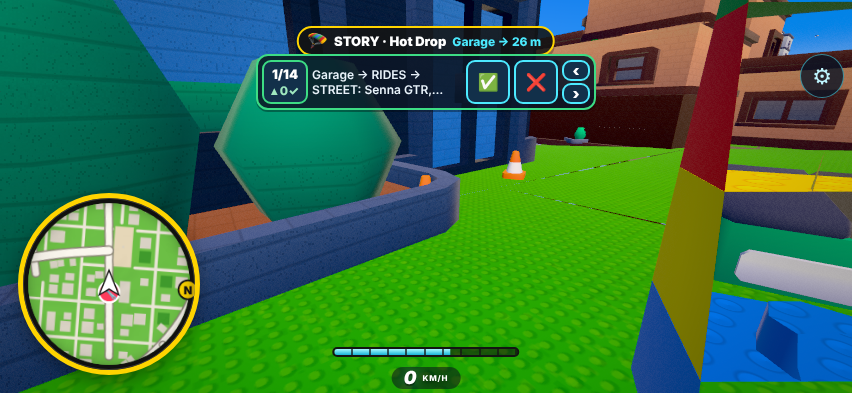
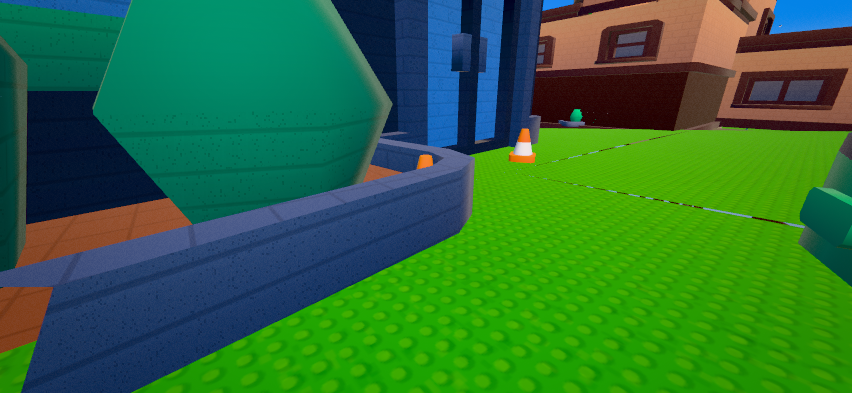
land-3: Athens cypress lathe cut to 35 tris (2 tiers, 5 sides), Athens/Frankfurt shots
Claude-Session: https://claude.ai/code/session_01F9UVq3exKAQQy4xHV7BH6G

diff --git a/src/98ld_l_land.js b/src/98ld_l_land.js
@@ -88,9 +88,9 @@ function LDS_rock(old,cl,ch){const{V,F}=LDS.ROCK,P=[],c=[],lo=new THREE.Color(cl
 Object.assign(LDS.SW,{cone:[LDS_cone,'4589 cone'],barrier:[LDS_barrier,'4083 barrier'],clight:[LDS_clight,'4032+3062b warning light'],sign:[LDS_sign,'30260p01 stop sign + 3957a'],rock:[LDS_rock,'42284+42291 rock']});
 // Athens CE_* procedural props (land-3, swaps 14-17), same LEGO parts as Frankfurt in Athens colours; set right after CE_defs (buildHubProps)
 // CE_pine -> 3471 Plant Tree Pyramidal 4x4x6⅔ (264 tris of icospheres), CE_olive -> 3470 Plant Tree Oval in olive sage (184), CE_rock -> the 42284/42291 boulder
-// in tan (160), CE_cypress -> 3778 Plant Tree Columnar 4x4x11.5: its 12 stacked tiers as 4 (lProfile 3778.dat, 6 sides)
+// in tan (160), CE_cypress -> 3778 Plant Tree Columnar 4x4x11.5: its stacked tiers as 2, 5 sides (35 tris: 14k cypresses, ≤ the old 41)
 LDS.CE={CE_pine:[()=>LDS_lth(LDS.P.tree3.n,8,[[48,'#6b4a2a'],[999,'#3e6b34']]),'3471',7.2],CE_olive:[()=>LDS_lth(LDS.P.tree.n,7,[[48,'#6a5848'],[999,'#8a9a68']]),'3470',4.1],
- CE_cypress:[()=>LDS_lth([[6,0],[6,36],[44,48],[16,70],[47,96],[18,130],[44,150],[14,190],[34,200],[0,280]],6,[[38,'#5a4030'],[999,'#2d5a32']]),'3778',8.6]};
+ CE_cypress:[()=>LDS_lth([[6,0],[44,40],[20,110],[46,124],[0,280]],5,[[30,'#5a4030'],[999,'#2d5a32']]),'3778',8.6]};
 CE_defs=(f=>function(D){const r=f.apply(this,arguments);if(CID!=='ath')return r;LDS.st=LDS.st||{};for(const t in LDS.CE){const d=D[t];if(!d||d.lds)continue;try{const[fn,src,h]=LDS.CE[t],old=LDS_tri(d.g),g=fn();g.computeBoundingBox();const k=h/g.boundingBox.max.y;g.scale(k,k,k);g.computeBoundingBox();g.computeBoundingSphere();d.gOld=d.g;d.g=g;d.lds=t;LDS.st[t]={src,old,near:LDS_tri(g),far:LDS_tri(g)}}catch(e){console.warn('LDS '+t,e)}}
  const d=D.CE_rock;if(d&&!d.lds)try{const old=LDS_tri(d.g),g=LDS_rock(d.g,'#c8b48a','#a89c84');d.gOld=d.g;d.g=g;d.lds='CE_rock';LDS.st.CE_rock={src:'42284+42291 rock',old,near:LDS_tri(g),far:LDS_tri(g)}}catch(e){console.warn('LDS CE_rock',e)}return r})(CE_defs);
 // Athens palm (swap 7, Syntagma race palms, TRK.tree 'palm'): LEGO palm as built in set 6376 Breezeway Cafe (ld/land/l_palm.ldr, OMR, CCAL 2.0):

diff --git a/docs/MODULES.md b/docs/MODULES.md
@@ -72,7 +72,7 @@ Format: sections list top-level declarations (column 0; exact lines via find.sh)
 | 98ld | `98ld_stub.js` | 1 | LDM (v89v, 2026-10-10). Coordinator: "move all LDraw model data OUT of overdrive.html into models.js next to km.js" (page ≤ 3.5 MB, flat as models grow). The da |
 | 98ld | `98ld_import.js` | 17 | LD (models-1, 2026-10-10). Alex: "use the taxi as an example to build more complicated items; look on the web for LEGO builds". Real LEGO builds come in as LDra |
 | 98ld | `98ld_w.js` | 7 | LDW (build-5 world props, 2026-10-10). Alex: "one model every ~5 minutes". Real LEGO sets (LDraw OMR, CCAL 2.0) as WORLD props: city buildings, shops, Athens ho |
-| 98ld | `98ld_l_land.js` | 21 | LDS land trees (land-1, 2026-10-10). Alex: "landscape builds for Frankfurt ... drop the free assets and use our own faster assets". Frankfurt's trees become the |
+| 98ld | `98ld_l_land.js` | 22 | LDS land trees (land-1, 2026-10-10). Alex: "landscape builds for Frankfurt ... drop the free assets and use our own faster assets". Frankfurt's trees become the |
 | 98ld | `98ld_run.js` | 4 | LDM runner (v89z: lazy per-model loading). models.js is now a small INDEX (tools/ld/mkmodels.py): the presets + placements of every data module (window.__LDQ, r |
 | 98of | `98of_onfoot.js` | 45 | OF (v89a): ON FOOT P1 (docs/ON_FOOT_PLAN.md §4 P1). EXIT at a stop, the minifig steps out, the car stays parked; walk / run / jump with a floating left stick (t |
 | 99c | `99c_checklist.js` | 41 | CK: in-game TEST CHECKLIST (Alex 2026-10-08: "I will play, just include a check list inside the game update so I can validate"). OD_CHECKLIST = items per versio |
@@ -341,9 +341,9 @@ uses: 92(50), 93(33), 20(15), 53(11), 98(8), 98ld(7), 98gb(6), 41(5), 30(3), 70(
 defines: LDW_P LDW LDW_reg LDW_geo LDW_build1 LDW_boat LDW_spot LDW_build
 uses: 20(18), 92(17), 30(16), 53(13), 98ld(12), 93(8), 10(7), 98ld(6), 70(6), 51(4)
 
-## 98ld_l_land.js — 21 KB
+## 98ld_l_land.js — 22 KB
 defines: LDS LDS_lathe LDS_tri LDS_lamp LDS_fence LDS_crate LDS_fit LDS_planter LDS_dumpster LDS_lth LDS_fitH LDS_cone LDS_barrier LDS_clight LDS_sign LDS_rock LDS_palm LDS_scan LDS_ab
-uses: 30(23), 53(20), 60(14), 10(12), 20(11), 97(8), 70(3), 98ld(3)
+uses: 30(23), 20(21), 53(20), 10(17), 60(14), 97(8), 70(3), 98ld(3)
 
 ## 98ld_run.js — 4 KB
 defines: LDL LD_redraw LD_done LD_ingest LD_load LD_need LD_brMiss LD_probe
